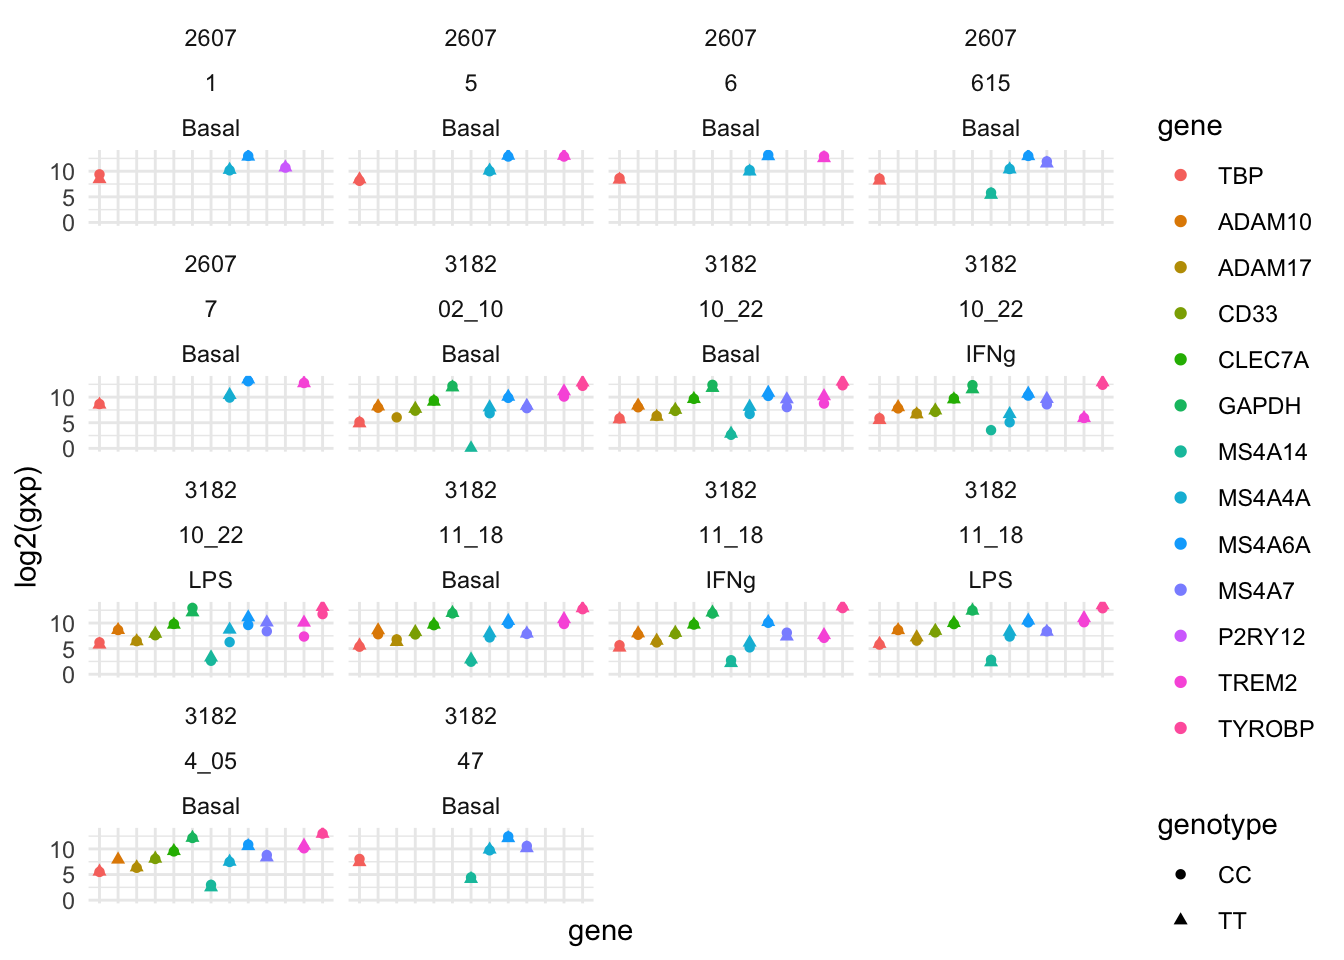
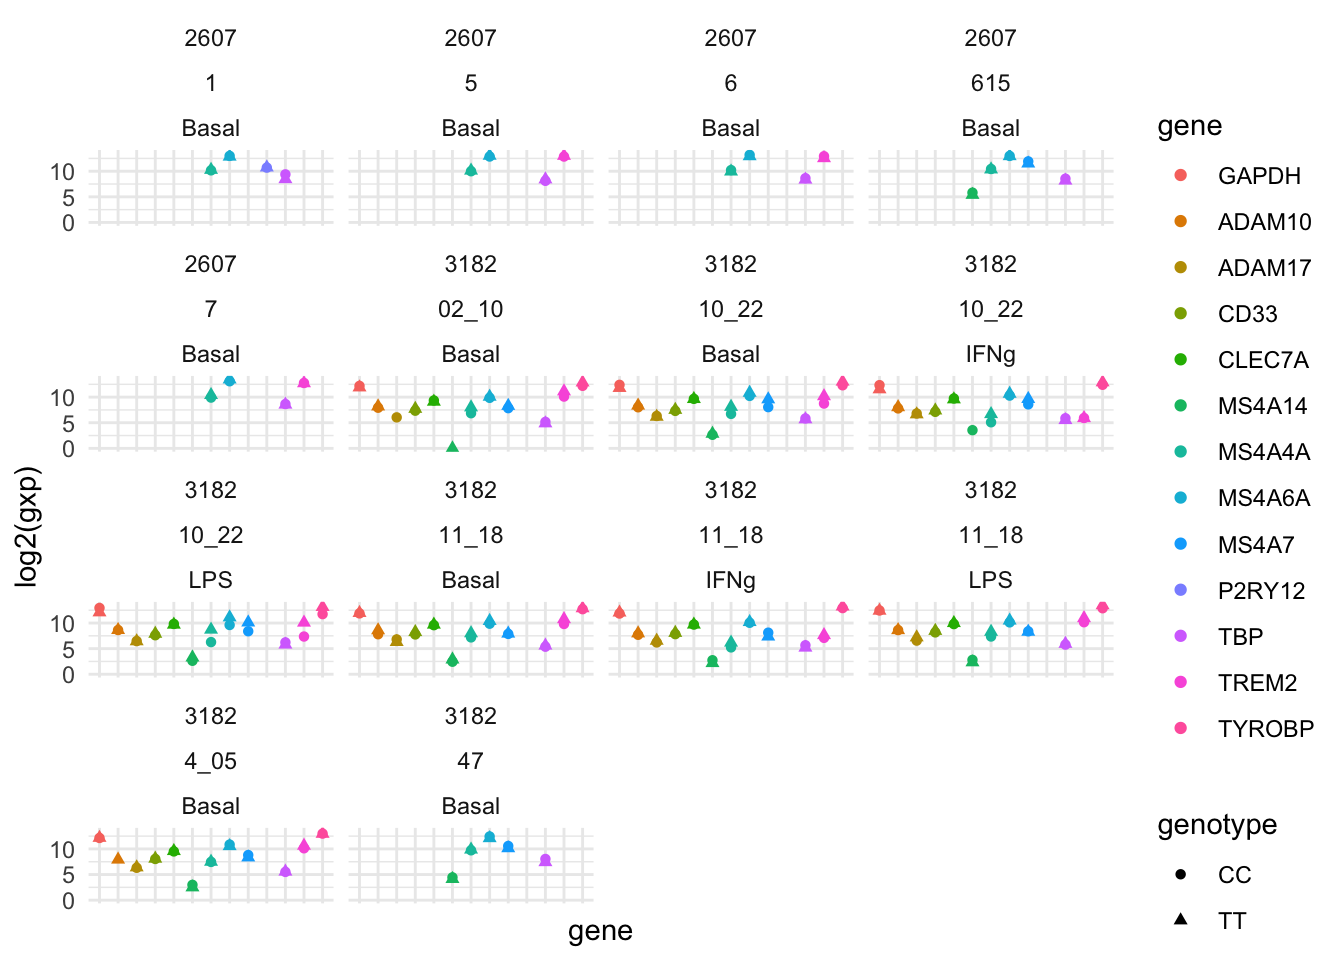
Add contrast estimates and hypothesis test using marginaleffects package

diff --git a/index.html b/index.html
@@ -154,7 +154,9 @@ code span.wa { color: #60a0b0; font-weight: bold; font-style: italic; } /* Warni
 <span id="cb1-6"><a href="#cb1-6" aria-hidden="true" tabindex="-1"></a><span class="fu">library</span>(lmerTest)</span>
 <span id="cb1-7"><a href="#cb1-7" aria-hidden="true" tabindex="-1"></a><span class="fu">library</span>(DHARMa)</span>
 <span id="cb1-8"><a href="#cb1-8" aria-hidden="true" tabindex="-1"></a><span class="fu">library</span>(emmeans)</span>
-<span id="cb1-9"><a href="#cb1-9" aria-hidden="true" tabindex="-1"></a><span class="fu">theme_set</span>(<span class="fu">theme_minimal</span>())</span></code><button title="Copy to Clipboard" class="code-copy-button"><i class="bi"></i></button></pre></div>
+<span id="cb1-9"><a href="#cb1-9" aria-hidden="true" tabindex="-1"></a><span class="fu">library</span>(ggeffects)</span>
+<span id="cb1-10"><a href="#cb1-10" aria-hidden="true" tabindex="-1"></a><span class="fu">library</span>(marginaleffects)</span>
+<span id="cb1-11"><a href="#cb1-11" aria-hidden="true" tabindex="-1"></a><span class="fu">theme_set</span>(<span class="fu">theme_minimal</span>())</span></code><button title="Copy to Clipboard" class="code-copy-button"><i class="bi"></i></button></pre></div>
 </div>
 </section>
 <section id="load-and-tidy-data" class="level2">
@@ -177,7 +179,7 @@ code span.wa { color: #60a0b0; font-weight: bold; font-style: italic; } /* Warni
 <span id="cb3-2"><a href="#cb3-2" aria-hidden="true" tabindex="-1"></a>  <span class="fu">rename</span>(<span class="at">gene =</span> target_name,</span>
 <span id="cb3-3"><a href="#cb3-3" aria-hidden="true" tabindex="-1"></a>         <span class="at">ct =</span> avg_ct,</span>
 <span id="cb3-4"><a href="#cb3-4" aria-hidden="true" tabindex="-1"></a>         <span class="at">deltact =</span> d_ct) <span class="sc">%&gt;%</span></span>
-<span id="cb3-5"><a href="#cb3-5" aria-hidden="true" tabindex="-1"></a>  <span class="fu">mutate</span>(<span class="at">gene =</span> <span class="fu">fct_relevel</span>(gene, <span class="st">"TBP"</span>),</span>
+<span id="cb3-5"><a href="#cb3-5" aria-hidden="true" tabindex="-1"></a>  <span class="fu">mutate</span>(<span class="at">gene =</span> <span class="fu">fct_relevel</span>(gene, <span class="st">"GAPDH"</span>),</span>
 <span id="cb3-6"><a href="#cb3-6" aria-hidden="true" tabindex="-1"></a>         <span class="at">genotype =</span> <span class="fu">fct_relevel</span>(genotype, <span class="st">"CC"</span>),</span>
 <span id="cb3-7"><a href="#cb3-7" aria-hidden="true" tabindex="-1"></a>         <span class="at">treatment =</span> <span class="fu">fct_relevel</span>(treatment, <span class="st">"Basal"</span>),</span>
 <span id="cb3-8"><a href="#cb3-8" aria-hidden="true" tabindex="-1"></a>         <span class="at">experiment =</span> <span class="fu">factor</span>(experiment),</span>
@@ -333,10 +335,10 @@ Degrees-of-freedom method: kenward-roger </code></pre>
 </div>
 <div class="cell">
 <div class="sourceCode cell-code" id="cb12"><pre class="sourceCode r code-with-copy"><code class="sourceCode r"><span id="cb12-1"><a href="#cb12-1" aria-hidden="true" tabindex="-1"></a>df <span class="sc">%&gt;%</span></span>
-<span id="cb12-2"><a href="#cb12-2" aria-hidden="true" tabindex="-1"></a>  <span class="fu">filter</span>(gene <span class="sc">%in%</span> <span class="fu">c</span>(<span class="st">"MS4A4A"</span>, <span class="st">"TBP"</span>)) <span class="sc">%&gt;%</span></span>
+<span id="cb12-2"><a href="#cb12-2" aria-hidden="true" tabindex="-1"></a>  <span class="fu">filter</span>(gene <span class="sc">%in%</span> <span class="fu">c</span>(<span class="st">"MS4A4A"</span>, <span class="st">"GAPDH"</span>)) <span class="sc">%&gt;%</span></span>
 <span id="cb12-3"><a href="#cb12-3" aria-hidden="true" tabindex="-1"></a>  <span class="fu">lmer</span>(ct <span class="sc">~</span> gene <span class="sc">*</span> genotype <span class="sc">*</span> treatment <span class="sc">+</span> (<span class="dv">1</span> <span class="sc">|</span> line<span class="sc">/</span>experiment), <span class="at">data =</span> .) <span class="sc">%&gt;%</span></span>
 <span id="cb12-4"><a href="#cb12-4" aria-hidden="true" tabindex="-1"></a>  <span class="fu">emmeans</span>(.,  <span class="sc">~</span> gene <span class="sc">*</span> genotype <span class="sc">*</span> treatment) <span class="sc">%&gt;%</span></span>
-<span id="cb12-5"><a href="#cb12-5" aria-hidden="true" tabindex="-1"></a>  <span class="fu">contrast</span>(., <span class="at">interaction =</span> <span class="fu">c</span>(<span class="st">"consec"</span>), <span class="at">by =</span> <span class="st">"treatment"</span>) <span class="sc">%&gt;%</span></span>
+<span id="cb12-5"><a href="#cb12-5" aria-hidden="true" tabindex="-1"></a>  <span class="fu">contrast</span>(., <span class="at">interaction =</span> <span class="fu">c</span>(<span class="st">"trt.vs.ctrl"</span>), <span class="at">by =</span> <span class="st">"treatment"</span>) <span class="sc">%&gt;%</span></span>
 <span id="cb12-6"><a href="#cb12-6" aria-hidden="true" tabindex="-1"></a>  <span class="fu">left_join</span>(<span class="at">x =</span> <span class="fu">tidy</span>(.) <span class="sc">%&gt;%</span> <span class="fu">select</span>(treatment, p.value), <span class="at">y =</span> <span class="fu">confint</span>(.) <span class="sc">%&gt;%</span> tidy, <span class="at">by =</span> <span class="st">"treatment"</span>) <span class="sc">%&gt;%</span></span>
 <span id="cb12-7"><a href="#cb12-7" aria-hidden="true" tabindex="-1"></a>  <span class="fu">mutate</span>(<span class="fu">across</span>(<span class="fu">c</span>(estimate, std.error, conf.low, conf.high), <span class="sc">~</span> <span class="dv">2</span><span class="sc">^-</span>(.x))) <span class="sc">%&gt;%</span></span>
 <span id="cb12-8"><a href="#cb12-8" aria-hidden="true" tabindex="-1"></a>  <span class="fu">rename</span>(<span class="at">conf.l =</span> conf.high, <span class="at">conf.h =</span> conf.low) <span class="sc">%&gt;%</span></span>
@@ -345,7 +347,7 @@ Degrees-of-freedom method: kenward-roger </code></pre>
 
 <div data-pagedtable="false">
   <script data-pagedtable-source="" type="application/json">
-{"columns":[{"label":["treatment"],"name":[1],"type":["chr"],"align":["left"]},{"label":["gene_consec"],"name":[2],"type":["chr"],"align":["left"]},{"label":["genotype_consec"],"name":[3],"type":["chr"],"align":["left"]},{"label":["estimate"],"name":[4],"type":["dbl"],"align":["right"]},{"label":["std.error"],"name":[5],"type":["dbl"],"align":["right"]},{"label":["df"],"name":[6],"type":["dbl"],"align":["right"]},{"label":["conf.l"],"name":[7],"type":["dbl"],"align":["right"]},{"label":["conf.h"],"name":[8],"type":["dbl"],"align":["right"]},{"label":["p.value"],"name":[9],"type":["dbl"],"align":["right"]}],"data":[{"1":"Basal","2":"MS4A4A - TBP","3":"TT - CC","4":"1.522","5":"0.8633","6":"35","7":"1.13","8":"2.052","9":"0.0071153"},{"1":"IFNg","2":"MS4A4A - TBP","3":"TT - CC","4":"3.176","5":"0.7198","6":"35","7":"1.63","8":"6.190","9":"0.0012345"},{"1":"LPS","2":"MS4A4A - TBP","3":"TT - CC","4":"3.509","5":"0.7198","6":"35","7":"1.80","8":"6.839","9":"0.0005258"}],"options":{"columns":{"min":{},"max":[10]},"rows":{"min":[10],"max":[10]},"pages":{}}}
+{"columns":[{"label":["treatment"],"name":[1],"type":["chr"],"align":["left"]},{"label":["gene_trt.vs.ctrl"],"name":[2],"type":["chr"],"align":["left"]},{"label":["genotype_trt.vs.ctrl"],"name":[3],"type":["chr"],"align":["left"]},{"label":["estimate"],"name":[4],"type":["dbl"],"align":["right"]},{"label":["std.error"],"name":[5],"type":["dbl"],"align":["right"]},{"label":["df"],"name":[6],"type":["dbl"],"align":["right"]},{"label":["conf.l"],"name":[7],"type":["dbl"],"align":["right"]},{"label":["conf.h"],"name":[8],"type":["dbl"],"align":["right"]},{"label":["p.value"],"name":[9],"type":["dbl"],"align":["right"]}],"data":[{"1":"Basal","2":"MS4A4A - GAPDH","3":"TT - CC","4":"1.498","5":"0.8145","6":"23.01","7":"0.9802","8":"2.290","9":"0.060824"},{"1":"IFNg","2":"MS4A4A - GAPDH","3":"TT - CC","4":"2.973","5":"0.7070","6":"23.01","7":"1.4509","8":"6.091","9":"0.004568"},{"1":"LPS","2":"MS4A4A - GAPDH","3":"TT - CC","4":"4.347","5":"0.7070","6":"23.01","7":"2.1216","8":"8.906","9":"0.000311"}],"options":{"columns":{"min":{},"max":[10]},"rows":{"min":[10],"max":[10]},"pages":{}}}
   </script>
 </div>
 </div>
@@ -491,10 +493,10 @@ Degrees-of-freedom method: kenward-roger </code></pre>
 </div>
 <div class="cell">
 <div class="sourceCode cell-code" id="cb23"><pre class="sourceCode r code-with-copy"><code class="sourceCode r"><span id="cb23-1"><a href="#cb23-1" aria-hidden="true" tabindex="-1"></a>df <span class="sc">%&gt;%</span></span>
-<span id="cb23-2"><a href="#cb23-2" aria-hidden="true" tabindex="-1"></a>  <span class="fu">filter</span>(gene <span class="sc">%in%</span> <span class="fu">c</span>(<span class="st">"MS4A6A"</span>, <span class="st">"TBP"</span>)) <span class="sc">%&gt;%</span></span>
+<span id="cb23-2"><a href="#cb23-2" aria-hidden="true" tabindex="-1"></a>  <span class="fu">filter</span>(gene <span class="sc">%in%</span> <span class="fu">c</span>(<span class="st">"MS4A6A"</span>, <span class="st">"GAPDH"</span>)) <span class="sc">%&gt;%</span></span>
 <span id="cb23-3"><a href="#cb23-3" aria-hidden="true" tabindex="-1"></a>  <span class="fu">lmer</span>(ct <span class="sc">~</span> gene <span class="sc">*</span> genotype <span class="sc">*</span> treatment <span class="sc">+</span> (<span class="dv">1</span> <span class="sc">|</span> line<span class="sc">/</span>experiment), <span class="at">data =</span> .) <span class="sc">%&gt;%</span></span>
 <span id="cb23-4"><a href="#cb23-4" aria-hidden="true" tabindex="-1"></a>  <span class="fu">emmeans</span>(.,  <span class="sc">~</span> gene <span class="sc">*</span> genotype <span class="sc">*</span> treatment) <span class="sc">%&gt;%</span></span>
-<span id="cb23-5"><a href="#cb23-5" aria-hidden="true" tabindex="-1"></a>  <span class="fu">contrast</span>(., <span class="at">interaction =</span> <span class="fu">c</span>(<span class="st">"consec"</span>), <span class="at">by =</span> <span class="st">"treatment"</span>) <span class="sc">%&gt;%</span></span>
+<span id="cb23-5"><a href="#cb23-5" aria-hidden="true" tabindex="-1"></a>  <span class="fu">contrast</span>(., <span class="at">interaction =</span> <span class="fu">c</span>(<span class="st">"trt.vs.ctrl"</span>), <span class="at">by =</span> <span class="st">"treatment"</span>) <span class="sc">%&gt;%</span></span>
 <span id="cb23-6"><a href="#cb23-6" aria-hidden="true" tabindex="-1"></a>  <span class="fu">left_join</span>(<span class="at">x =</span> <span class="fu">tidy</span>(.) <span class="sc">%&gt;%</span> <span class="fu">select</span>(treatment, p.value), <span class="at">y =</span> <span class="fu">confint</span>(.) <span class="sc">%&gt;%</span> tidy, <span class="at">by =</span> <span class="st">"treatment"</span>) <span class="sc">%&gt;%</span></span>
 <span id="cb23-7"><a href="#cb23-7" aria-hidden="true" tabindex="-1"></a>  <span class="fu">mutate</span>(<span class="fu">across</span>(<span class="fu">c</span>(estimate, std.error, conf.low, conf.high), <span class="sc">~</span> <span class="dv">2</span><span class="sc">^-</span>(.x))) <span class="sc">%&gt;%</span></span>
 <span id="cb23-8"><a href="#cb23-8" aria-hidden="true" tabindex="-1"></a>  <span class="fu">rename</span>(<span class="at">conf.l =</span> conf.high, <span class="at">conf.h =</span> conf.low) <span class="sc">%&gt;%</span></span>
@@ -503,7 +505,7 @@ Degrees-of-freedom method: kenward-roger </code></pre>
 
 <div data-pagedtable="false">
   <script data-pagedtable-source="" type="application/json">
-{"columns":[{"label":["treatment"],"name":[1],"type":["chr"],"align":["left"]},{"label":["gene_consec"],"name":[2],"type":["chr"],"align":["left"]},{"label":["genotype_consec"],"name":[3],"type":["chr"],"align":["left"]},{"label":["estimate"],"name":[4],"type":["dbl"],"align":["right"]},{"label":["std.error"],"name":[5],"type":["dbl"],"align":["right"]},{"label":["df"],"name":[6],"type":["dbl"],"align":["right"]},{"label":["conf.l"],"name":[7],"type":["dbl"],"align":["right"]},{"label":["conf.h"],"name":[8],"type":["dbl"],"align":["right"]},{"label":["p.value"],"name":[9],"type":["dbl"],"align":["right"]}],"data":[{"1":"Basal","2":"MS4A6A - TBP","3":"TT - CC","4":"1.231","5":"0.8900","6":"35","7":"0.9717","8":"1.559","9":"0.083205"},{"1":"IFNg","2":"MS4A6A - TBP","3":"TT - CC","4":"1.578","5":"0.7707","6":"35","7":"0.9297","8":"2.677","9":"0.088843"},{"1":"LPS","2":"MS4A6A - TBP","3":"TT - CC","4":"2.086","5":"0.7707","6":"35","7":"1.2293","8":"3.540","9":"0.007804"}],"options":{"columns":{"min":{},"max":[10]},"rows":{"min":[10],"max":[10]},"pages":{}}}
+{"columns":[{"label":["treatment"],"name":[1],"type":["chr"],"align":["left"]},{"label":["gene_trt.vs.ctrl"],"name":[2],"type":["chr"],"align":["left"]},{"label":["genotype_trt.vs.ctrl"],"name":[3],"type":["chr"],"align":["left"]},{"label":["estimate"],"name":[4],"type":["dbl"],"align":["right"]},{"label":["std.error"],"name":[5],"type":["dbl"],"align":["right"]},{"label":["df"],"name":[6],"type":["dbl"],"align":["right"]},{"label":["conf.l"],"name":[7],"type":["dbl"],"align":["right"]},{"label":["conf.h"],"name":[8],"type":["dbl"],"align":["right"]},{"label":["p.value"],"name":[9],"type":["dbl"],"align":["right"]}],"data":[{"1":"Basal","2":"MS4A6A - GAPDH","3":"TT - CC","4":"1.211","5":"0.8497","6":"23.01","7":"0.8649","8":"1.697","9":"0.25101"},{"1":"IFNg","2":"MS4A6A - GAPDH","3":"TT - CC","4":"1.477","5":"0.7593","6":"23.01","7":"0.8353","8":"2.610","9":"0.17043"},{"1":"LPS","2":"MS4A6A - GAPDH","3":"TT - CC","4":"2.584","5":"0.7593","6":"23.01","7":"1.4619","8":"4.568","9":"0.00219"}],"options":{"columns":{"min":{},"max":[10]},"rows":{"min":[10],"max":[10]},"pages":{}}}
   </script>
 </div>
 </div>
@@ -536,6 +538,28 @@ Degrees-of-freedom method: kenward-roger </code></pre>
 <span id="cb25-9"><a href="#cb25-9" aria-hidden="true" tabindex="-1"></a>  <span class="fu">ggtitle</span>(<span class="st">"rs636317 genotype effect (TT - CC)"</span>)</span></code><button title="Copy to Clipboard" class="code-copy-button"><i class="bi"></i></button></pre></div>
 <div class="cell-output-display">
 <p><img src="index_files/figure-html/unnamed-chunk-19-1.png" class="img-fluid" width="672"></p>
+</div>
+</div>
+</section>
+<section id="ggeffects" class="level2">
+<h2 class="anchored" data-anchor-id="ggeffects">ggeffects</h2>
+<div class="cell">
+<div class="sourceCode cell-code" id="cb26"><pre class="sourceCode r code-with-copy"><code class="sourceCode r"><span id="cb26-1"><a href="#cb26-1" aria-hidden="true" tabindex="-1"></a>df2 <span class="ot">=</span> df <span class="sc">%&gt;%</span> <span class="fu">filter</span>(gene <span class="sc">%in%</span> <span class="fu">c</span>(<span class="st">"MS4A4A"</span>, <span class="st">"GAPDH"</span>))</span>
+<span id="cb26-2"><a href="#cb26-2" aria-hidden="true" tabindex="-1"></a></span>
+<span id="cb26-3"><a href="#cb26-3" aria-hidden="true" tabindex="-1"></a>mod <span class="ot">=</span> <span class="fu">lmer</span>(ct <span class="sc">~</span> gene <span class="sc">*</span> genotype <span class="sc">*</span> treatment <span class="sc">+</span> (<span class="dv">1</span> <span class="sc">|</span> line<span class="sc">/</span>experiment), <span class="at">data =</span> df2)</span>
+<span id="cb26-4"><a href="#cb26-4" aria-hidden="true" tabindex="-1"></a></span>
+<span id="cb26-5"><a href="#cb26-5" aria-hidden="true" tabindex="-1"></a><span class="fu">ggpredict</span>(mod, <span class="at">terms =</span> <span class="fu">c</span>(<span class="st">"gene"</span>, <span class="st">"genotype"</span>, <span class="st">"treatment"</span>)) <span class="sc">%&gt;%</span> plot</span></code><button title="Copy to Clipboard" class="code-copy-button"><i class="bi"></i></button></pre></div>
+<div class="cell-output-display">
+<p><img src="index_files/figure-html/unnamed-chunk-20-1.png" class="img-fluid" width="672"></p>
+</div>
+<div class="sourceCode cell-code" id="cb27"><pre class="sourceCode r code-with-copy"><code class="sourceCode r"><span id="cb27-1"><a href="#cb27-1" aria-hidden="true" tabindex="-1"></a><span class="fu">comparisons</span>(mod, <span class="at">variables =</span> <span class="fu">list</span>(<span class="at">gene =</span> <span class="st">"reference"</span>), <span class="at">by =</span> <span class="fu">c</span>(<span class="st">"genotype"</span>, <span class="st">"treatment"</span>), <span class="at">hypothesis =</span> <span class="st">"b1 = b2"</span>)</span></code><button title="Copy to Clipboard" class="code-copy-button"><i class="bi"></i></button></pre></div>
+<div class="cell-output-display">
+
+<div data-pagedtable="false">
+  <script data-pagedtable-source="" type="application/json">
+{"columns":[{"label":["type"],"name":[1],"type":["chr"],"align":["left"]},{"label":["term"],"name":[2],"type":["chr"],"align":["left"]},{"label":["comparison"],"name":[3],"type":["dbl"],"align":["right"]},{"label":["std.error"],"name":[4],"type":["dbl"],"align":["right"]},{"label":["statistic"],"name":[5],"type":["dbl"],"align":["right"]},{"label":["p.value"],"name":[6],"type":["dbl"],"align":["right"]},{"label":["conf.low"],"name":[7],"type":["dbl"],"align":["right"]},{"label":["conf.high"],"name":[8],"type":["dbl"],"align":["right"]}],"data":[{"1":"response","2":"b1=b2","3":"0.5834","4":"0.296","5":"1.971","6":"0.04868","7":"0.003371","8":"1.163"}],"options":{"columns":{"min":{},"max":[10]},"rows":{"min":[10],"max":[10]},"pages":{}}}
+  </script>
+</div>
 </div>
 </div>
 </section>
